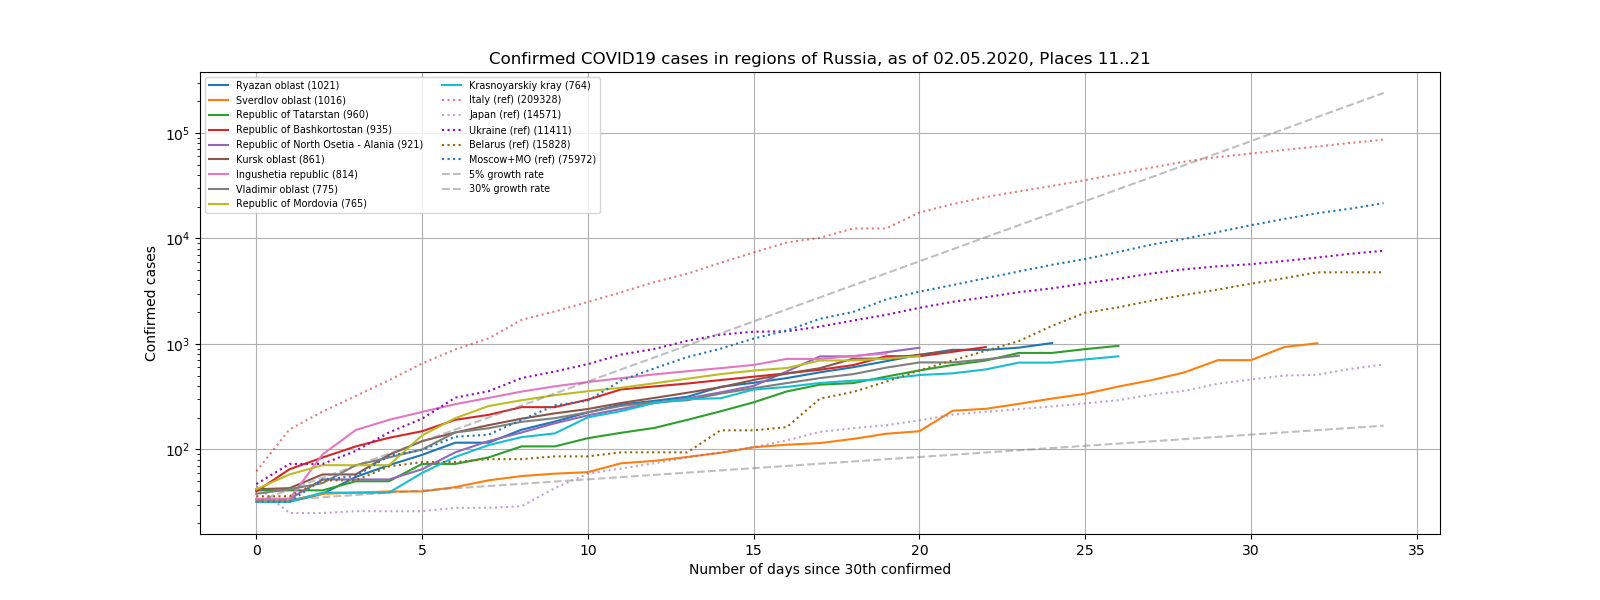
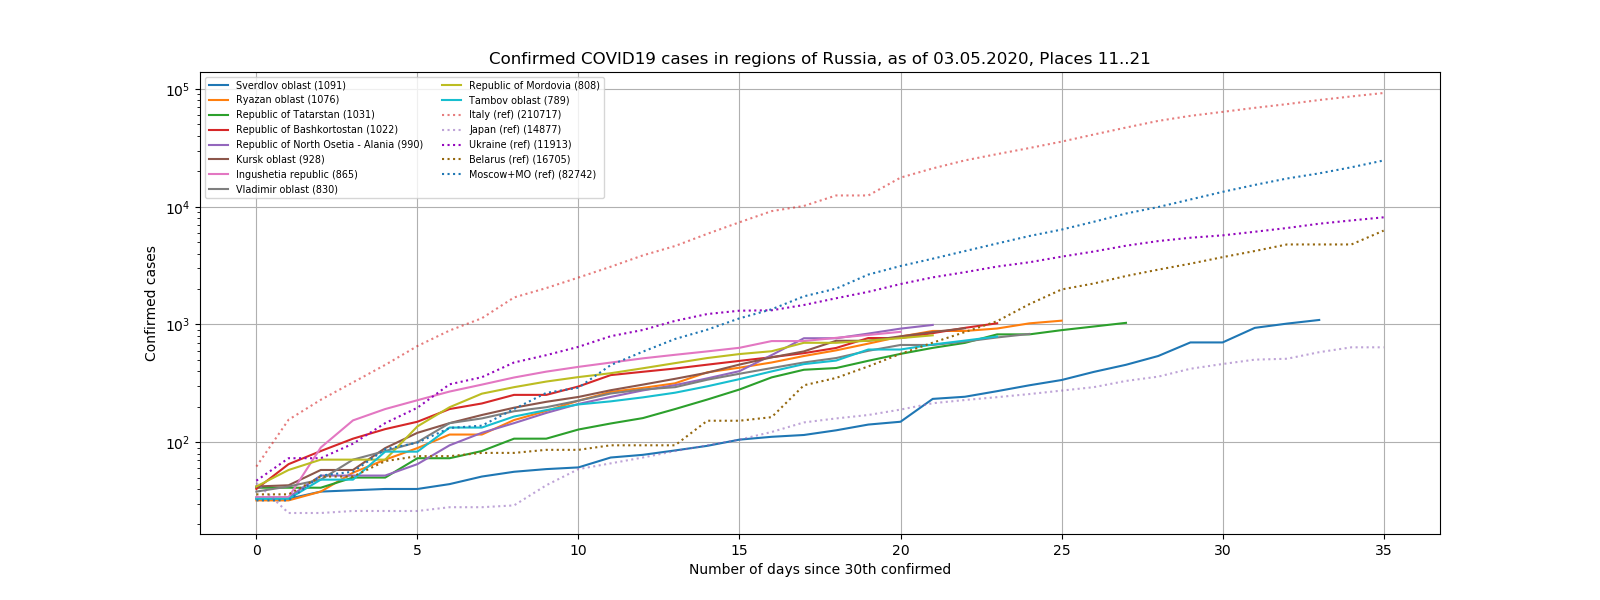
Update plots

diff --git a/python3/src/covid19ru/plot.py b/python3/src/covid19ru/plot.py
@@ -47,7 +47,7 @@ def plot(labels_in_russian:bool=True, **kwargs):
       xlabel="Количество дней с момента {min_threshold}-го подтвержденного случая",
       ylabel="Подтвержденных случаев",
       labels_in_russian=labels_in_russian,
-      plot_scale_markers=True,
+      plot_scale_markers=False,
       **kwargs)
   else:
     plot_(
@@ -56,7 +56,7 @@ def plot(labels_in_russian:bool=True, **kwargs):
       xlabel="Number of days since {min_threshold}th confirmed",
       ylabel="Confirmed cases",
       labels_in_russian=labels_in_russian,
-      plot_scale_markers=True,
+      plot_scale_markers=False,
       **kwargs)
 
 def plot_sliding(labels_in_russian:bool=True, **kwargs):
